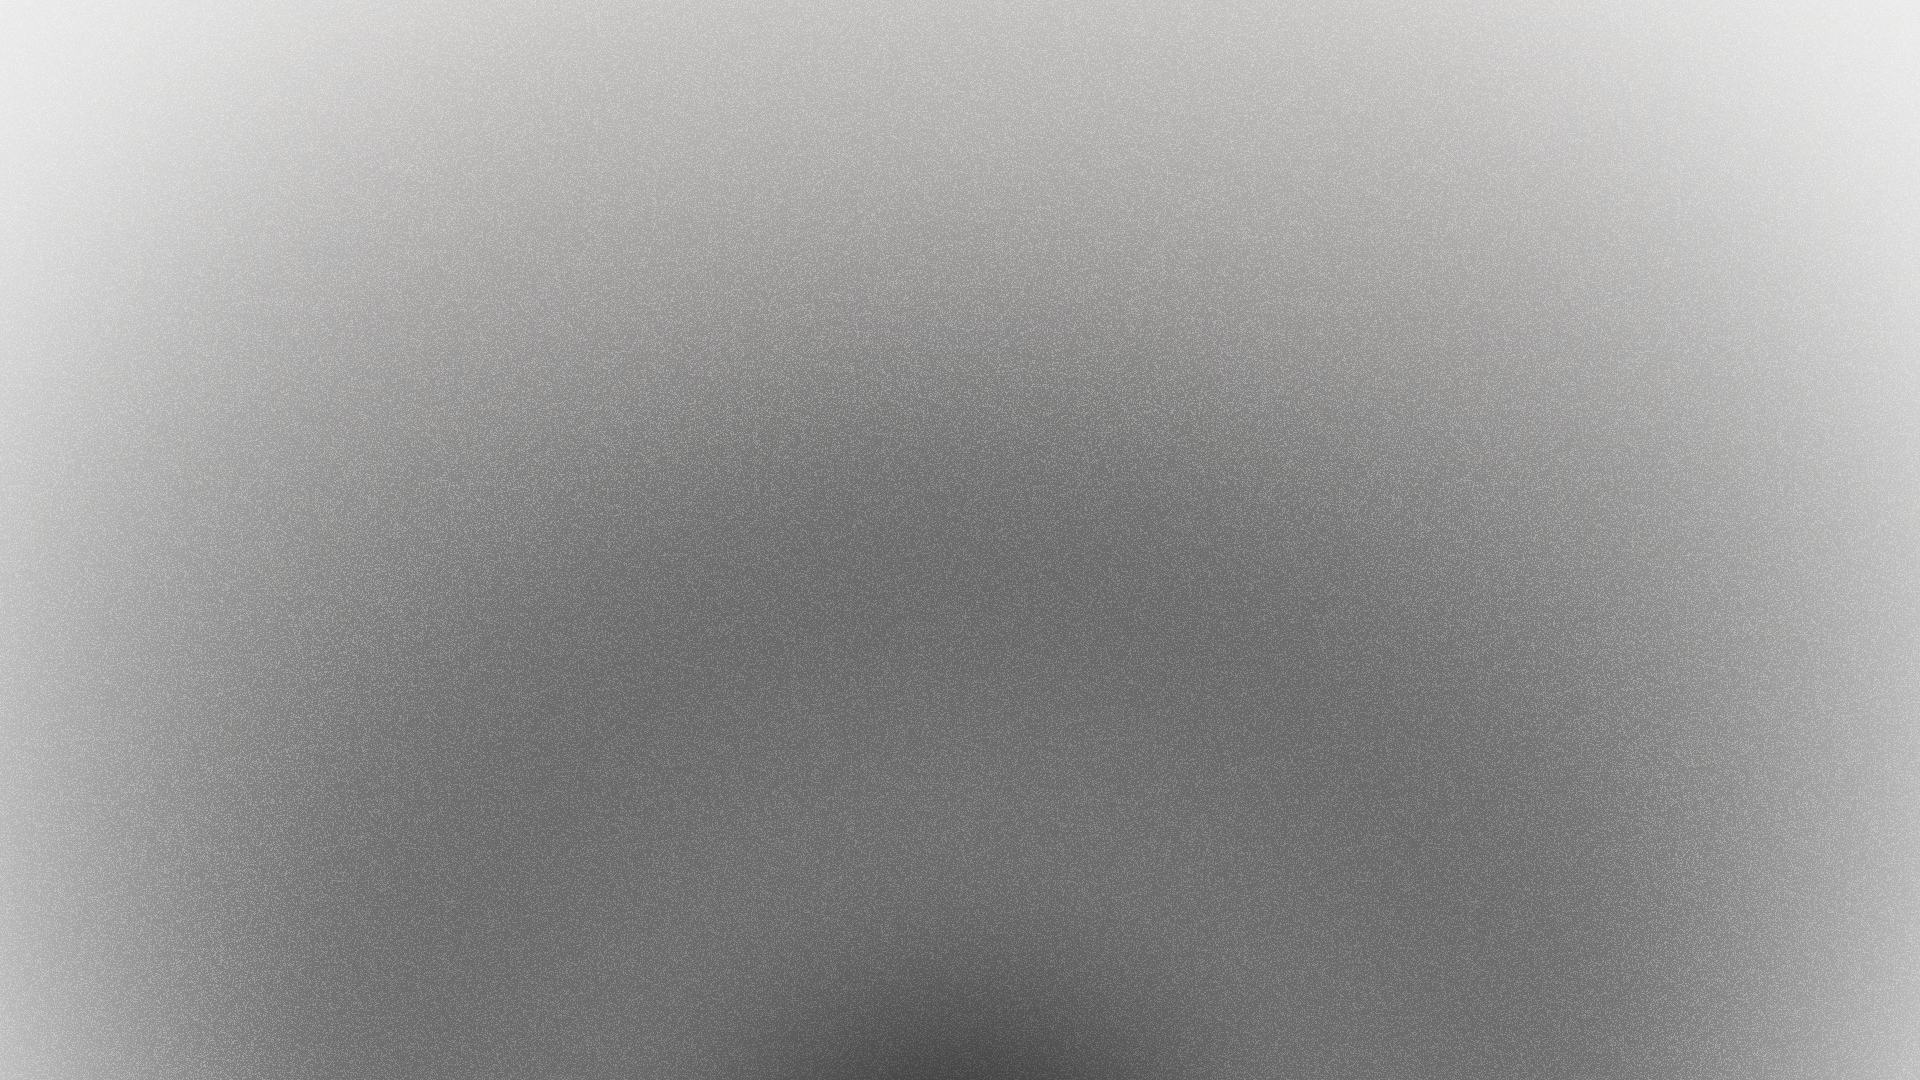
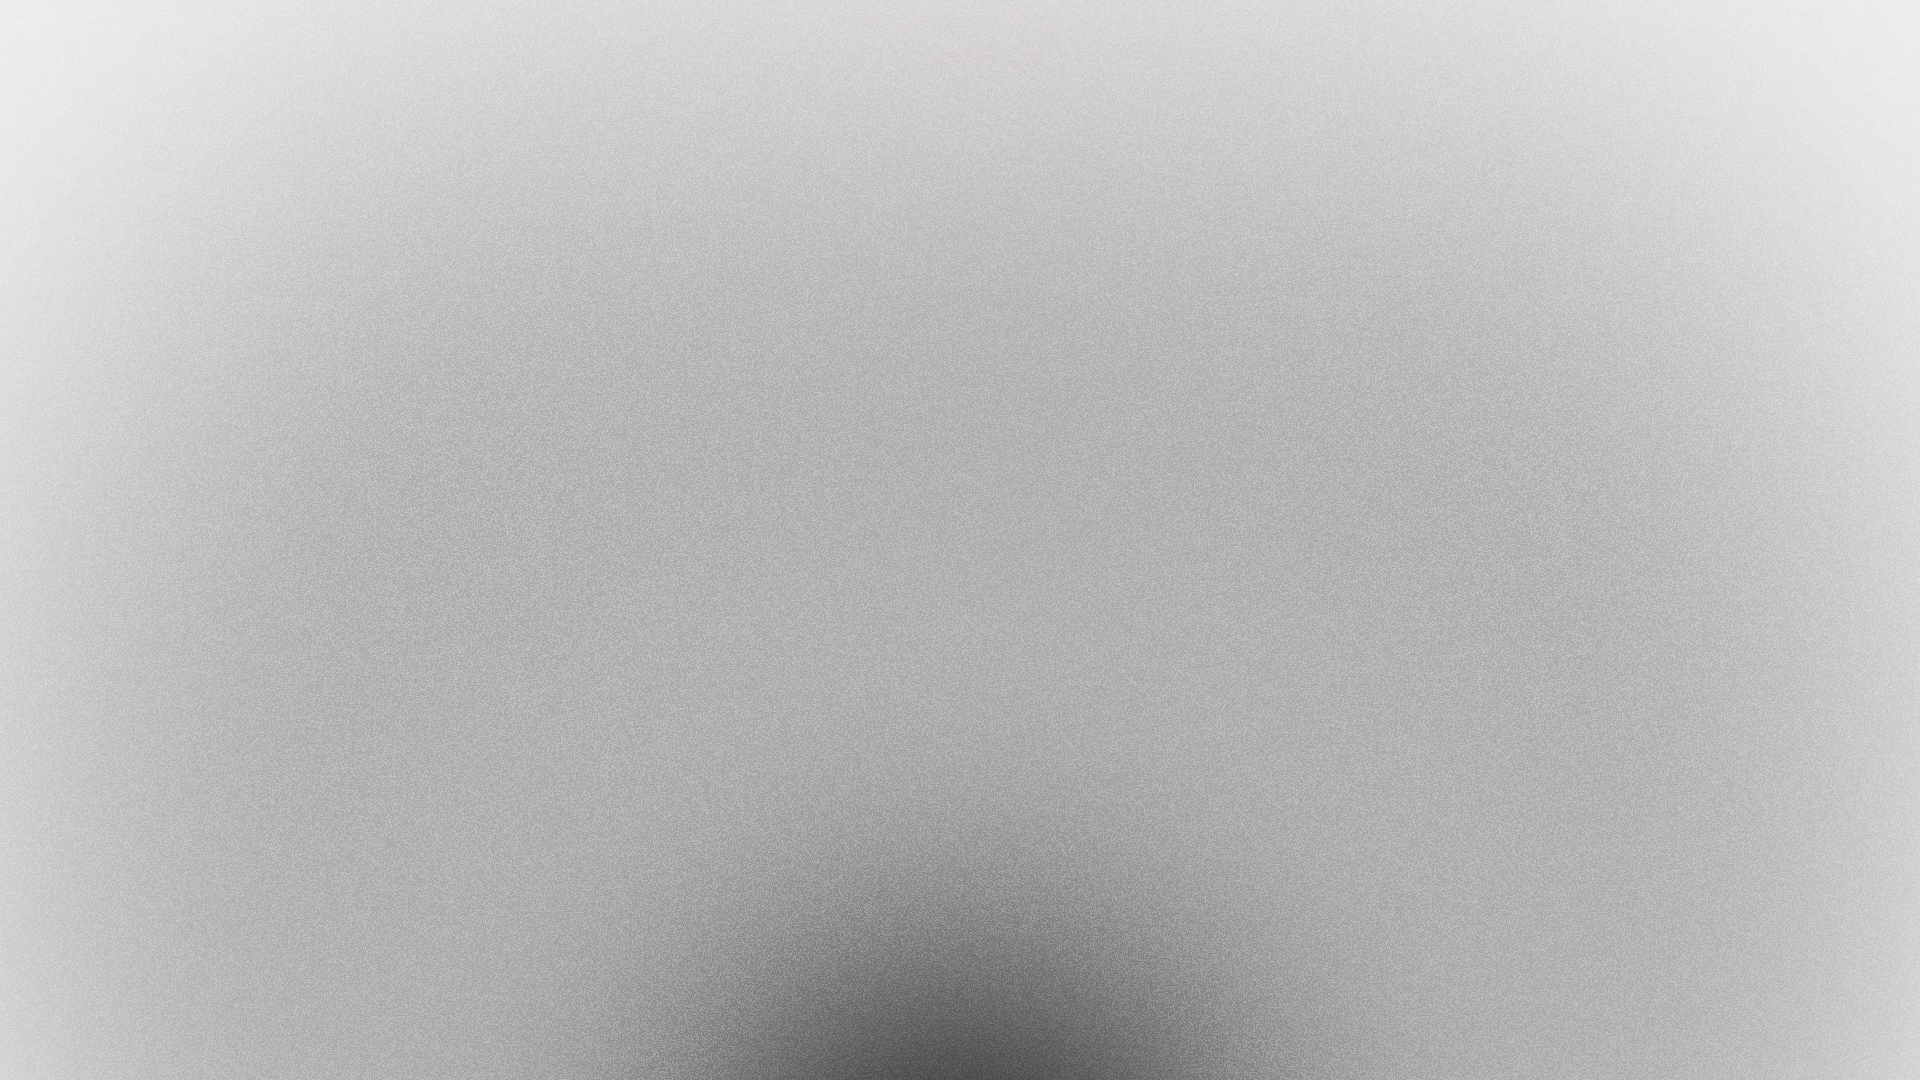
feat : Project Detail, APPLYR Project

diff --git a/app/lib/projects.ts b/app/lib/projects.ts
@@ -226,13 +226,13 @@ export const projects: Project[] = [
   {
     slug: "applyr",
     name: "Applyr",
-    tagline: "A workspace built for hiring momentum — applications, resumes, and follow-ups in one calm hub.",
+    tagline: "A workspace built for hiring momentum,  applications, resumes, and follow-ups in one easy to use app.",
     type: "Full-Stack SaaS",
     year: "2026",
-    status: "completed",
+    status: "in-progress",
     role: "Team of Two",
     icon: "briefcase",
-    heroImage: "/project-applyr.png",
+    heroImage: "/project-applyr-0.png",
     heroImageAlt: "Applyr — job application tracking SaaS",
     seoDescription:
       "Applyr — a job application tracking SaaS with a Laravel API, a React SPA, AI-tailored resumes, and browser extensions that capture listings straight from job boards.",
@@ -241,26 +241,27 @@ export const projects: Project[] = [
       demo: true,
     },
     background: [
-      "Applyr came out of a problem my teammate and I knew personally: the job hunt turns into chaos fast. Spreadsheets, bookmarked listings, five versions of the same resume — we wanted one calm place that holds all of it. So we built it as a real SaaS: a Laravel REST API on one side, a React single-page app on the other, nothing shared between them but a token and a contract.",
-      "The part I'm proudest of is how far we pushed past basic CRUD. Every application moves through a proper pipeline — wishlist to applied to interview to offer — and every status change is logged to its history automatically. Resumes have a master profile that AI tailors per application, with OCR to pull text out of an uploaded PDF and a clean A4 export at the end. We even shipped browser extensions for Chrome and Firefox: they read the job posting you're looking at, extract the company and position with AI, and file the application without you leaving the tab.",
-      "Building it as a duo taught me things solo projects never had to: agreeing on the API before writing either side of it, reviewing each other's assumptions, and keeping fourteen pages of frontend consistent while both of us moved fast. By the end we had auth flows, an admin panel, scheduled reminder emails — the unglamorous plumbing that makes something feel like a product instead of a demo.",
+      "Applyr came out of a problem my classmate and I knew personally, the job hunt thsese days turns quickly into chaos. Spreadsheets, bookmarked listings, five versions of the same resume. The goal was to make a single app that holds all of it. So we built it as a real SaaS: a Laravel REST API for the backend, a React SPA for the frontend, communication between them is done with a token and a contract shared between them, keeping the two apps isolated and secure.",
+      "This app is more than basic CRUD. Every application added moves through a proper pipeline : wishlist to applied to interview to offer, and every status change is logged to its history automatically. Resumes have a master profile that AI tailors per application, with OCR to pull text out of an uploaded PDF and a clean A4 export at the end.",
+      "We also shipped browser extensions for Chrome and Firefox: allowing for quick capture of job listings on the fly and without leaving the tab.",
+      "Building it as a duo taught me things solo projects never had : agreeing on the API before writing either side of it, reviewing each other's assumptions, and keeping fourteen pages of frontend consistent while both of us moved fast, working in git simulatneously and resolving merge conflicts. By the end we had auth flows, an admin panel, scheduled reminder emails.",
     ],
     features: [
       {
         title: "One pipeline, every transition on record",
-        body: "Applications flow from wishlist to accepted through a defined lifecycle, and each status change is written to a history log automatically — the timeline of the hunt writes itself.",
+        body: "Applications flow from wishlist to accepted through a defined coherent lifecycle, and each status change is written to a history log automatically.",
       },
       {
-        title: "Resumes that tailor themselves",
-        body: "A master profile feeds an AI that drafts per-application resume variants. Uploaded PDFs are parsed — with OCR as a fallback — and the result exports as a clean A4 document.",
+        title: "AI Resume tailoring",
+        body: "A master profile feeds an AI that drafts per-application resume variants. Uploaded PDFs are parsed with OCR as a fallback  and the result exports as a clean A4 document.",
       },
       {
-        title: "Capture jobs where they live",
-        body: "Chrome and Firefox extensions send the listing you're viewing to the API, where AI extracts company, position, and language — one click and it's filed in your pipeline.",
+        title: "Capture jobs without leaving the tab",
+        body: "Chrome and Firefox extensions send the listing you're viewing to the API and are directly added to your account.",
       },
       {
-        title: "Two apps, one honest contract",
-        body: "A React SPA talks to a Laravel REST API over Sanctum tokens — 40+ endpoints with form-request validation, API resources, an admin panel, and daily scheduled reminder emails.",
+        title: "Two apps, API Communication",
+        body: "A React SPA talks to a Laravel REST API over Sanctum tokens. 40+ endpoints with form-request validation, API resources, an admin panel, and daily scheduled reminder emails.",
       },
     ],
     stackRows: [
@@ -277,44 +278,82 @@ export const projects: Project[] = [
     ],
     screenshots: [
       {
-        src: "/project-applyr-hero.png",
+        src: "/project-applyr-1.png",
         alt: "Applyr landing page",
-        caption: "the front door — pitch on the left, live pipeline preview on the right",
+        caption: "The landing page, pitching the workspace with a live pipeline preview.",
       },
       {
-        src: "/project-applyr-dashboard.png",
-        alt: "Applyr dashboard with activity and stats",
-        caption: "the dashboard says good morning and keeps the score",
+        src: "/project-applyr-2.png",
+        alt: "Applyr sign-in page",
+        caption: "Signing in to Applyr.",
       },
       {
-        src: "/project-applyr-applications.png",
-        alt: "Applyr applications table",
-        caption: "every application in one honest table — statuses included",
+        src: "/project-applyr-3.png",
+        alt: "Applyr dashboard overview",
+        caption: "The dashboard: recent activity, in-progress applications, and top-level KPIs.",
       },
       {
-        src: "/project-applyr-detail.png",
-        alt: "Applyr application detail view",
-        caption: "one application unpacked: documents, checklist, history, AI actions",
+        src: "/project-applyr-4.png",
+        alt: "Applyr dashboard status breakdown and key indicators",
+        caption: "Further down the dashboard: a status breakdown chart and key indicators.",
       },
       {
-        src: "/project-applyr-resume.png",
-        alt: "Applyr AI resume preview",
-        caption: "the AI tailor at work — version timeline left, fresh A4 right",
+        src: "/project-applyr-5.png",
+        alt: "Applyr applications list",
+        caption: "The full applications list, filterable by status.",
       },
       {
-        src: "/project-applyr-extension.png",
-        alt: "Applyr browser extension capturing a LinkedIn listing",
-        caption: "the extension catching a LinkedIn listing red-handed",
+        src: "/project-applyr-6.png",
+        alt: "Applyr application detail page",
+        caption: "A single application's detail page, with status history and AI actions.",
+      },
+      {
+        src: "/project-applyr-7.png",
+        alt: "Applyr resume workspace",
+        caption: "The resume workspace: a master profile plus tailored drafts per application.",
+      },
+      {
+        src: "/project-applyr-8.png",
+        alt: "Applyr notifications page",
+        caption: "Notifications, logging every status change automatically.",
+      },
+      {
+        src: "/project-applyr-9.png",
+        alt: "Applyr profile page",
+        caption: "The profile page, for account details and password changes.",
+      },
+      {
+        src: "/project-applyr-10.png",
+        alt: "Applyr resume PDF preview with AI refine",
+        caption: "A resume PDF preview, with version history and a Refine with AI action.",
+      },
+      {
+        src: "/project-applyr-11.png",
+        alt: "Applyr dashboard in dark mode",
+        caption: "The dashboard again, this time in dark mode.",
+      },
+      {
+        src: "/project-applyr-12.png",
+        alt: "Applyr browser extension capturing a job listing",
+        caption: "The browser extension, capturing a job listing straight from the job board.",
       },
     ],
   },
+
+
+
+
+
+
+
+
   {
     slug: "sla-monitor",
     name: "SLA Monitor",
-    tagline: "A serverless AWS platform that watches endpoints minute by minute, detects incidents, and grades every week against its SLA.",
+    tagline: "A serverless AWS platform that monitors endpoints minute by minute, detects incidents, and generates weekly SLA reports.",
     type: "Cloud Architecture",
     year: "2026",
-    status: "completed",
+    status: "in-progress",
     role: "Solo Project",
     icon: "activity",
     heroImage: "/project-sla-monitor.png",
@@ -327,26 +366,29 @@ export const projects: Project[] = [
       demo: true,
     },
     background: [
-      "After the URL shortener I wanted the next size up: not a service that answers when called, but a system that runs on its own schedule, around the clock, and holds itself accountable. Uptime monitoring was the perfect excuse — everyone claims 99.9%, so I built the thing that checks.",
-      "The architecture is event-driven end to end. EventBridge wakes a Monitor Lambda every minute to probe each target and log status and latency; an SLA Processor runs hourly to turn consecutive failures into incidents — and to close them when things recover; and every Monday a Report Generator aggregates the week into the full metric suite: uptime, p50/p95/p99 latency, error rate, MTTR, MTBF — judged against each project's own thresholds and emailed out via SES. Five Lambdas in total, and each one has an IAM role scoped to exactly the tables and actions it needs. The read-only API physically cannot write.",
-      "Everything is Terraform — reusable modules for DynamoDB, IAM, Cognito, API Gateway, and a Lambda factory that hashes the source and redeploys only what changed, with remote state in Terraform Cloud. Auth runs through Cognito with Google OAuth wired in as an identity provider. It's the first project where I stopped feeling like I was using AWS and started feeling like I was operating it.",
+      "After the URL shortener I set my goal on a more ambitious project, and a project that would deepen my understanding of Cloud Architectures, and my engineering approach and problem solving.",
+      "I built it in the order the problem itself demanded. First the Monitor Lambda: EventBridge wakes it every minute, it probes each target, and logs status and latency to DynamoDB.", 
+      "Only once that history existed could I reason about the next question. One failed ping isn't an incident, three in a row is, so the SLA Processor came next, running hourly, opening incidents on consecutive failures and closing them the moment a target recovers.", 
+      "The Report Generator came last, because it needed the other two to already be trustworthy: every Monday it rolls the week into uptime, p50/p95/p99 latency, error rate, MTTR and MTBF, checks each number against that project's own thresholds, and mails the verdict out through SES.", 
+      "Five Lambdas, five different clocks, each doing exactly their job.",
+      "The API and auth layer came last. Cognito handles sign-in with Google OAuth wired in as an Identity Provider, API Gateway validates the JWT before anything reaches compute, and the read-only API's Lambda role is scoped narrow enough that even a fully compromised endpoint physically cannot write a record. Every resource behind all of it went in through Terraform modules.",
     ],
     features: [
       {
-        title: "Five Lambdas, five clean jobs",
-        body: "Monitor every minute, incident detection every hour, reports every Monday, a read-only API, and a project manager for writes — each function triggered on its own schedule, each with its own scoped IAM role.",
+        title: "Five Lambdas, each its job",
+        body: "Monitor every minute, incident detection every hour, reports every Monday, a read-only API, and a project manager for writes. each function triggered on its own schedule with EventBridge.",
       },
       {
-        title: "Metrics that mean something",
-        body: "Weekly reports compute uptime, p50/p95/p99 latency, error rate, downtime, MTTR and MTBF, evaluate them against per-project thresholds, and assign a severity before landing in your inbox.",
+        title: "Professional Metrics",
+        body: "Weekly reports compute uptime, p50/p95/p99 latency, error rate, downtime, MTTR and MTBF, evaluate them against per-project thresholds, and assign a severity before landing in user's inbox.",
       },
       {
-        title: "Terraform owns every resource",
-        body: "Modular IaC with remote state in Terraform Cloud. Lambda deployments are content-hashed and immutable — a code change produces a new artifact, and nothing gets clicked together in the console.",
+        title: "Terraform Provisioning",
+        body: "Clear Modular IaC with remote state in Terraform Cloud. Lambda deployments are content-hashed and immutable, a code change produces a new artifact, and nothing was made in the console.",
       },
       {
-        title: "Security shaped like a blast radius",
-        body: "API Gateway validates Cognito JWTs before anything reaches compute. No shared roles, no wildcard ARNs — if the read path is ever compromised, it still can't write a single record.",
+        title: "Least-privilege access control",
+        body: "API Gateway validates Cognito JWTs before any request reaches compute. Each Lambda function runs under its own scoped role, no shared roles, no wildcard ARNs. If the read path were ever compromised, not a single record would ever be written.",
       },
     ],
     stackRows: [

diff --git a/app/components/project/project-gallery.tsx b/app/components/project/project-gallery.tsx
@@ -247,6 +247,9 @@ function Frame({ slug, shot, index }: { slug: string; shot: ProjectScreenshot; i
           src={shot.src}
           alt={shot.alt}
           fill
+          // Every frame is mounted up front, so eager-load the captures at page
+          // load instead of waiting to scroll each one into view.
+          loading="eager"
           sizes="(max-width: 768px) 85vw, 90vw"
           className={shot.fit === "contain" ? "object-contain" : "object-cover"}
         />